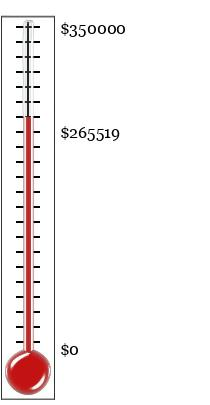
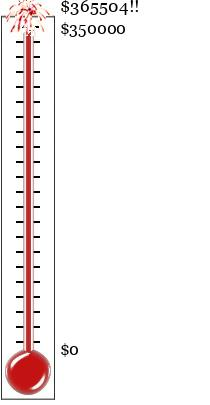
2024 fundraising update: $365,504; Community goes iridium!

Changed region(s): [[0.0286, 0.0, 0.2571, 0.2963], [0.2857, 0.2963, 0.5714, 0.3556], [0.2857, 0.0, 0.6571, 0.0593]]

diff --git a/contributors.html b/contributors.html
@@ -108,9 +108,11 @@ On request we will provide a link to your website for donations of
 <EM><A HREF=activities.html#2024>2024 Supported Activities</A></EM>
 <UL>
 <LI> Iridium: $100,000 and above
-<LI> Platinum: $50,000 to $100,000
 <UL>
 <LI><A HREF=donations.html>Total from smaller donors</A>
+</UL>
+<LI> Platinum: $50,000 to $100,000
+<UL>
 <LI><A HREF=https://www.google.com>Google</A>
 </UL>
 <LI> Gold: $25,000 to $50,000
